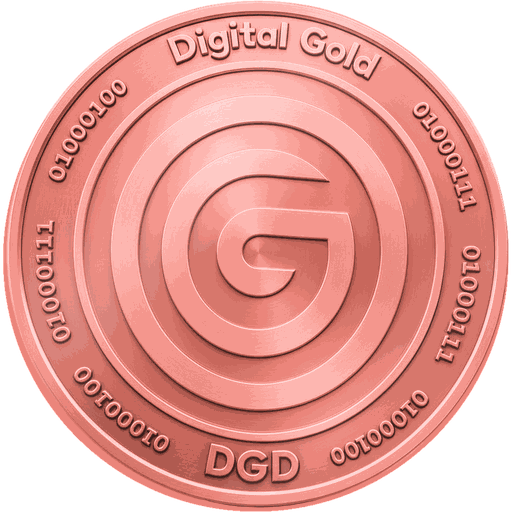
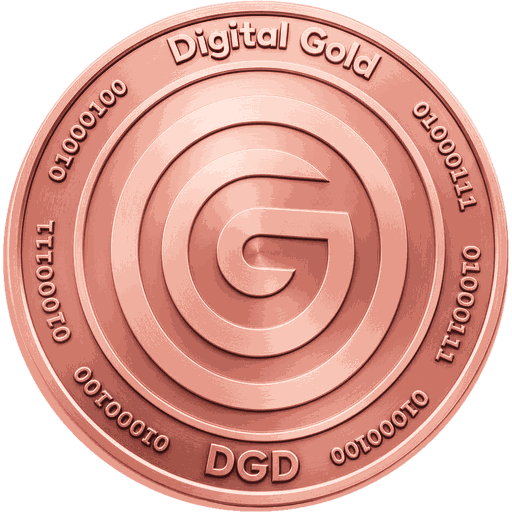
Leaderboard medals polished to match, synced from app 0760c18
TEN-GAMES.md records the first-place medal moving to the polished gold, the
rose-gold third place remade from the gold render, and that every coin in
the app now shares one lit render.

diff --git a/arcade/v2/app/lib/arcade/leaderboard_screen.dart b/arcade/v2/app/lib/arcade/leaderboard_screen.dart
@@ -209,7 +209,7 @@ class _LeaderboardScreenState extends State<LeaderboardScreen> {
         child: Padding(
           padding: const EdgeInsets.all(32),
           child: Column(mainAxisSize: MainAxisSize.min, children: [
-            Image.asset('assets/images/coin_gold.png', width: 56, height: 56),
+            Image.asset('assets/images/coin_gold_shiny.png', width: 56, height: 56),
             const SizedBox(height: 16),
             const Text('Nobody has scored this week yet.',
                 textAlign: TextAlign.center,
@@ -244,8 +244,10 @@ class _LeaderboardScreenState extends State<LeaderboardScreen> {
   }
 
   /// Top three wear the precious-metal coins; everyone else gets a mono rank.
+  /// First place is the polished gold the home coin and When Pigs Fly use,
+  /// so the gold coin looks the same everywhere in the app.
   Widget _rank(int rank) {
-    const medals = {1: 'coin_gold.png', 2: 'coin_silver.png', 3: 'coin_rose.png'};
+    const medals = {1: 'coin_gold_shiny.png', 2: 'coin_silver.png', 3: 'coin_rose.png'};
     final medal = medals[rank];
     if (medal != null) {
       return SizedBox(

diff --git a/arcade/v2/app/lib/arcade/passage/passage_game.dart b/arcade/v2/app/lib/arcade/passage/passage_game.dart
@@ -606,8 +606,8 @@ class PassageGame extends FlameGame {
   /// coin.
   Future<void> _loadCoinSprites() async {
     const files = {
-      // The game's own polished gold (tools/gen_shiny_gold_coin.py); the
-      // shared coin_gold.png stays as the brand's hero coin.
+      // The polished gold (tools/gen_shiny_gold_coin.py), which the home
+      // coin and the leaderboard's first place use too.
       PickupKind.gold: 'coin_gold_shiny.png',
       PickupKind.silver: 'coin_silver.png',
       PickupKind.copper: 'coin_copper.png',

diff --git a/arcade/v2/app/tools/gen_rose_coin.py b/arcade/v2/app/tools/gen_rose_coin.py
@@ -1,0 +1,41 @@
+"""Makes coin_rose.png: polished rose gold, the leaderboard's third place.
+
+Like the silver and copper (gen_silver_coin.py, gen_copper_coin.py) it is
+made from the gold coin's render, the same design with full shading,
+through a colour ramp: deep plum-brown in the grooves, a warm pink-copper
+body, and a pale blush at the top. It sits between the copper's orange and
+the silver's cool grey, so the three medals read as a set of metals.
+
+    python tools/gen_rose_coin.py
+
+Source: tools/source/coin_gold_for_silver.png. The original rose render is
+kept as tools/source/coin_rose_original.png.
+"""
+import os
+
+import numpy as np
+from PIL import Image
+
+HERE = os.path.dirname(os.path.abspath(__file__))
+SRC = os.path.join(HERE, "source", "coin_gold_for_silver.png")
+OUT = os.path.join(HERE, "..", "assets", "images", "coin_rose.png")
+
+STOPS = [
+    (0, (26, 8, 8)),
+    (70, (80, 30, 28)),
+    (125, (150, 72, 64)),
+    (165, (200, 112, 98)),
+    (195, (228, 148, 132)),
+    (222, (246, 188, 172)),
+    (242, (255, 222, 210)),
+    (255, (255, 244, 238)),
+]
+
+a = np.array(Image.open(SRC).convert("RGBA")).astype(float)
+lum = a[:, :, :3] @ np.array([0.299, 0.587, 0.114])
+xs = [s[0] for s in STOPS]
+rgb = np.stack([np.interp(lum, xs, [s[1][c] for s in STOPS]) for c in range(3)], axis=-1)
+out = np.dstack([rgb, a[:, :, 3]]).astype(np.uint8)
+Image.fromarray(out, "RGBA").save(OUT)
+m = out[:, :, 3] > 200
+print("wrote", os.path.normpath(OUT), "median brightness", int(np.median(out[m][:, :3].mean(axis=1))))

diff --git a/arcade/v2/app/tools/gen_shiny_gold_coin.py b/arcade/v2/app/tools/gen_shiny_gold_coin.py
@@ -1,8 +1,9 @@
-"""Makes coin_gold_shiny.png: When Pigs Fly's gold coin, polished.
+"""Makes coin_gold_shiny.png: the app's polished gold coin.
 
-The shared coin_gold.png is also the brand's hero coin on the home screen
-and the leaderboard's first-place medal, so it is left as it is; this is a
-separate, shinier copy for the game only. Like the copper
+Made first for When Pigs Fly, then taken up by the home screen's hero coin
+and the leaderboard's first-place medal, so every gold coin in the app is
+this one. The original coin_gold.png is kept, unused by the app, as the
+source render. Like the copper
 (gen_copper_coin.py) it maps the gold render's brightness through a colour
 ramp: deep amber in the grooves, rich saturated gold in the body, and a
 near-white warm glint at the top. The wider range, darker shadows and

diff --git a/arcade/TEN-GAMES.md b/arcade/TEN-GAMES.md
@@ -594,7 +594,17 @@ The owner then asked for the home screen's hero coin to match, and it does
 - the same star flares at the rim as they cross the middle
 
 The float, the chime on each sweep and the tap-to-flip are unchanged. The
-leaderboard's first-place medal still uses the original `coin_gold.png`.
+leaderboard's first-place medal, and its empty-board coin, followed the same
+day, so every gold coin in the app is now `coin_gold_shiny.png`. The original
+`coin_gold.png` stays in the repo as the source render, unused by the app.
+
+The leaderboard's third-place rose-gold medal followed too
+(`tools/gen_rose_coin.py`). It is made from the gold render through a
+rose-gold ramp: plum-brown grooves, a warm pink-copper body and a pale blush
+at the top. It stays rose gold rather than becoming the game's copper, since
+the medals are precious metals. The original is kept in `tools/source/`.
+Every coin in the app, the game's three and the leaderboard's three, now
+shares the one lit render.
 
 **The flare, redone.** The owner didn't like the first flare, two stroked
 lines that read as a plus sign laid on the coin. It is now light
